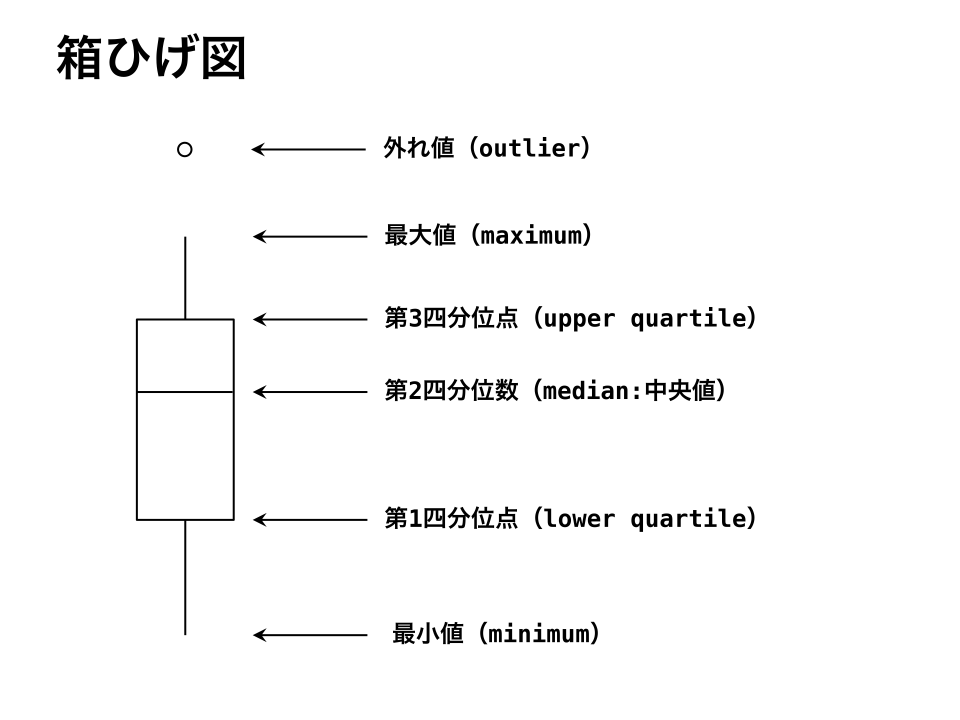
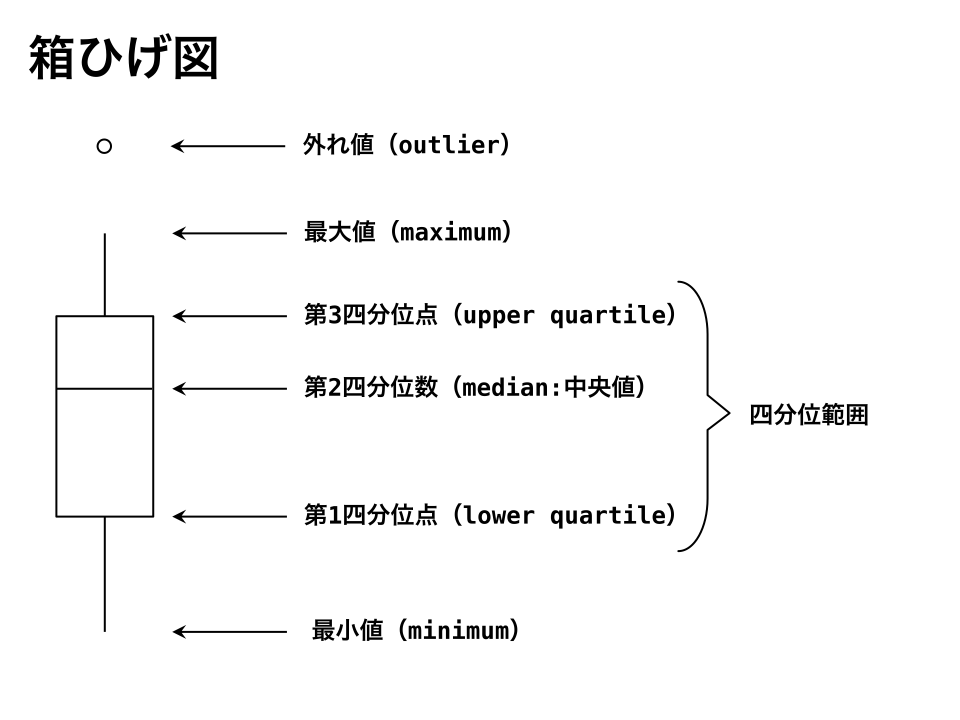
update

diff --git a/misc/stat/箱ひげ図.md b/misc/stat/箱ひげ図.md
@@ -17,11 +17,12 @@
 
 |用語|説明|
 |:-:|:-:|
-|最小値（minimum）||
+|最小値（minimum）|値が小さくなる方向のひげの先端|
 |第1四分位点（lower quartile） $Q_1$|25%分位点|
 |第2四分位点（median） $Q_2$|50%分位点|
 |第3四分位点（upper quartile）$Q_3$|75%分位点|
-|最大値（maximum）||
+|最大値（maximum）|値が大きくなる方向のひげの先端|
+|四分位範囲|データの真ん中の50%部分の長さ|
 
 ## 参考文献
 
